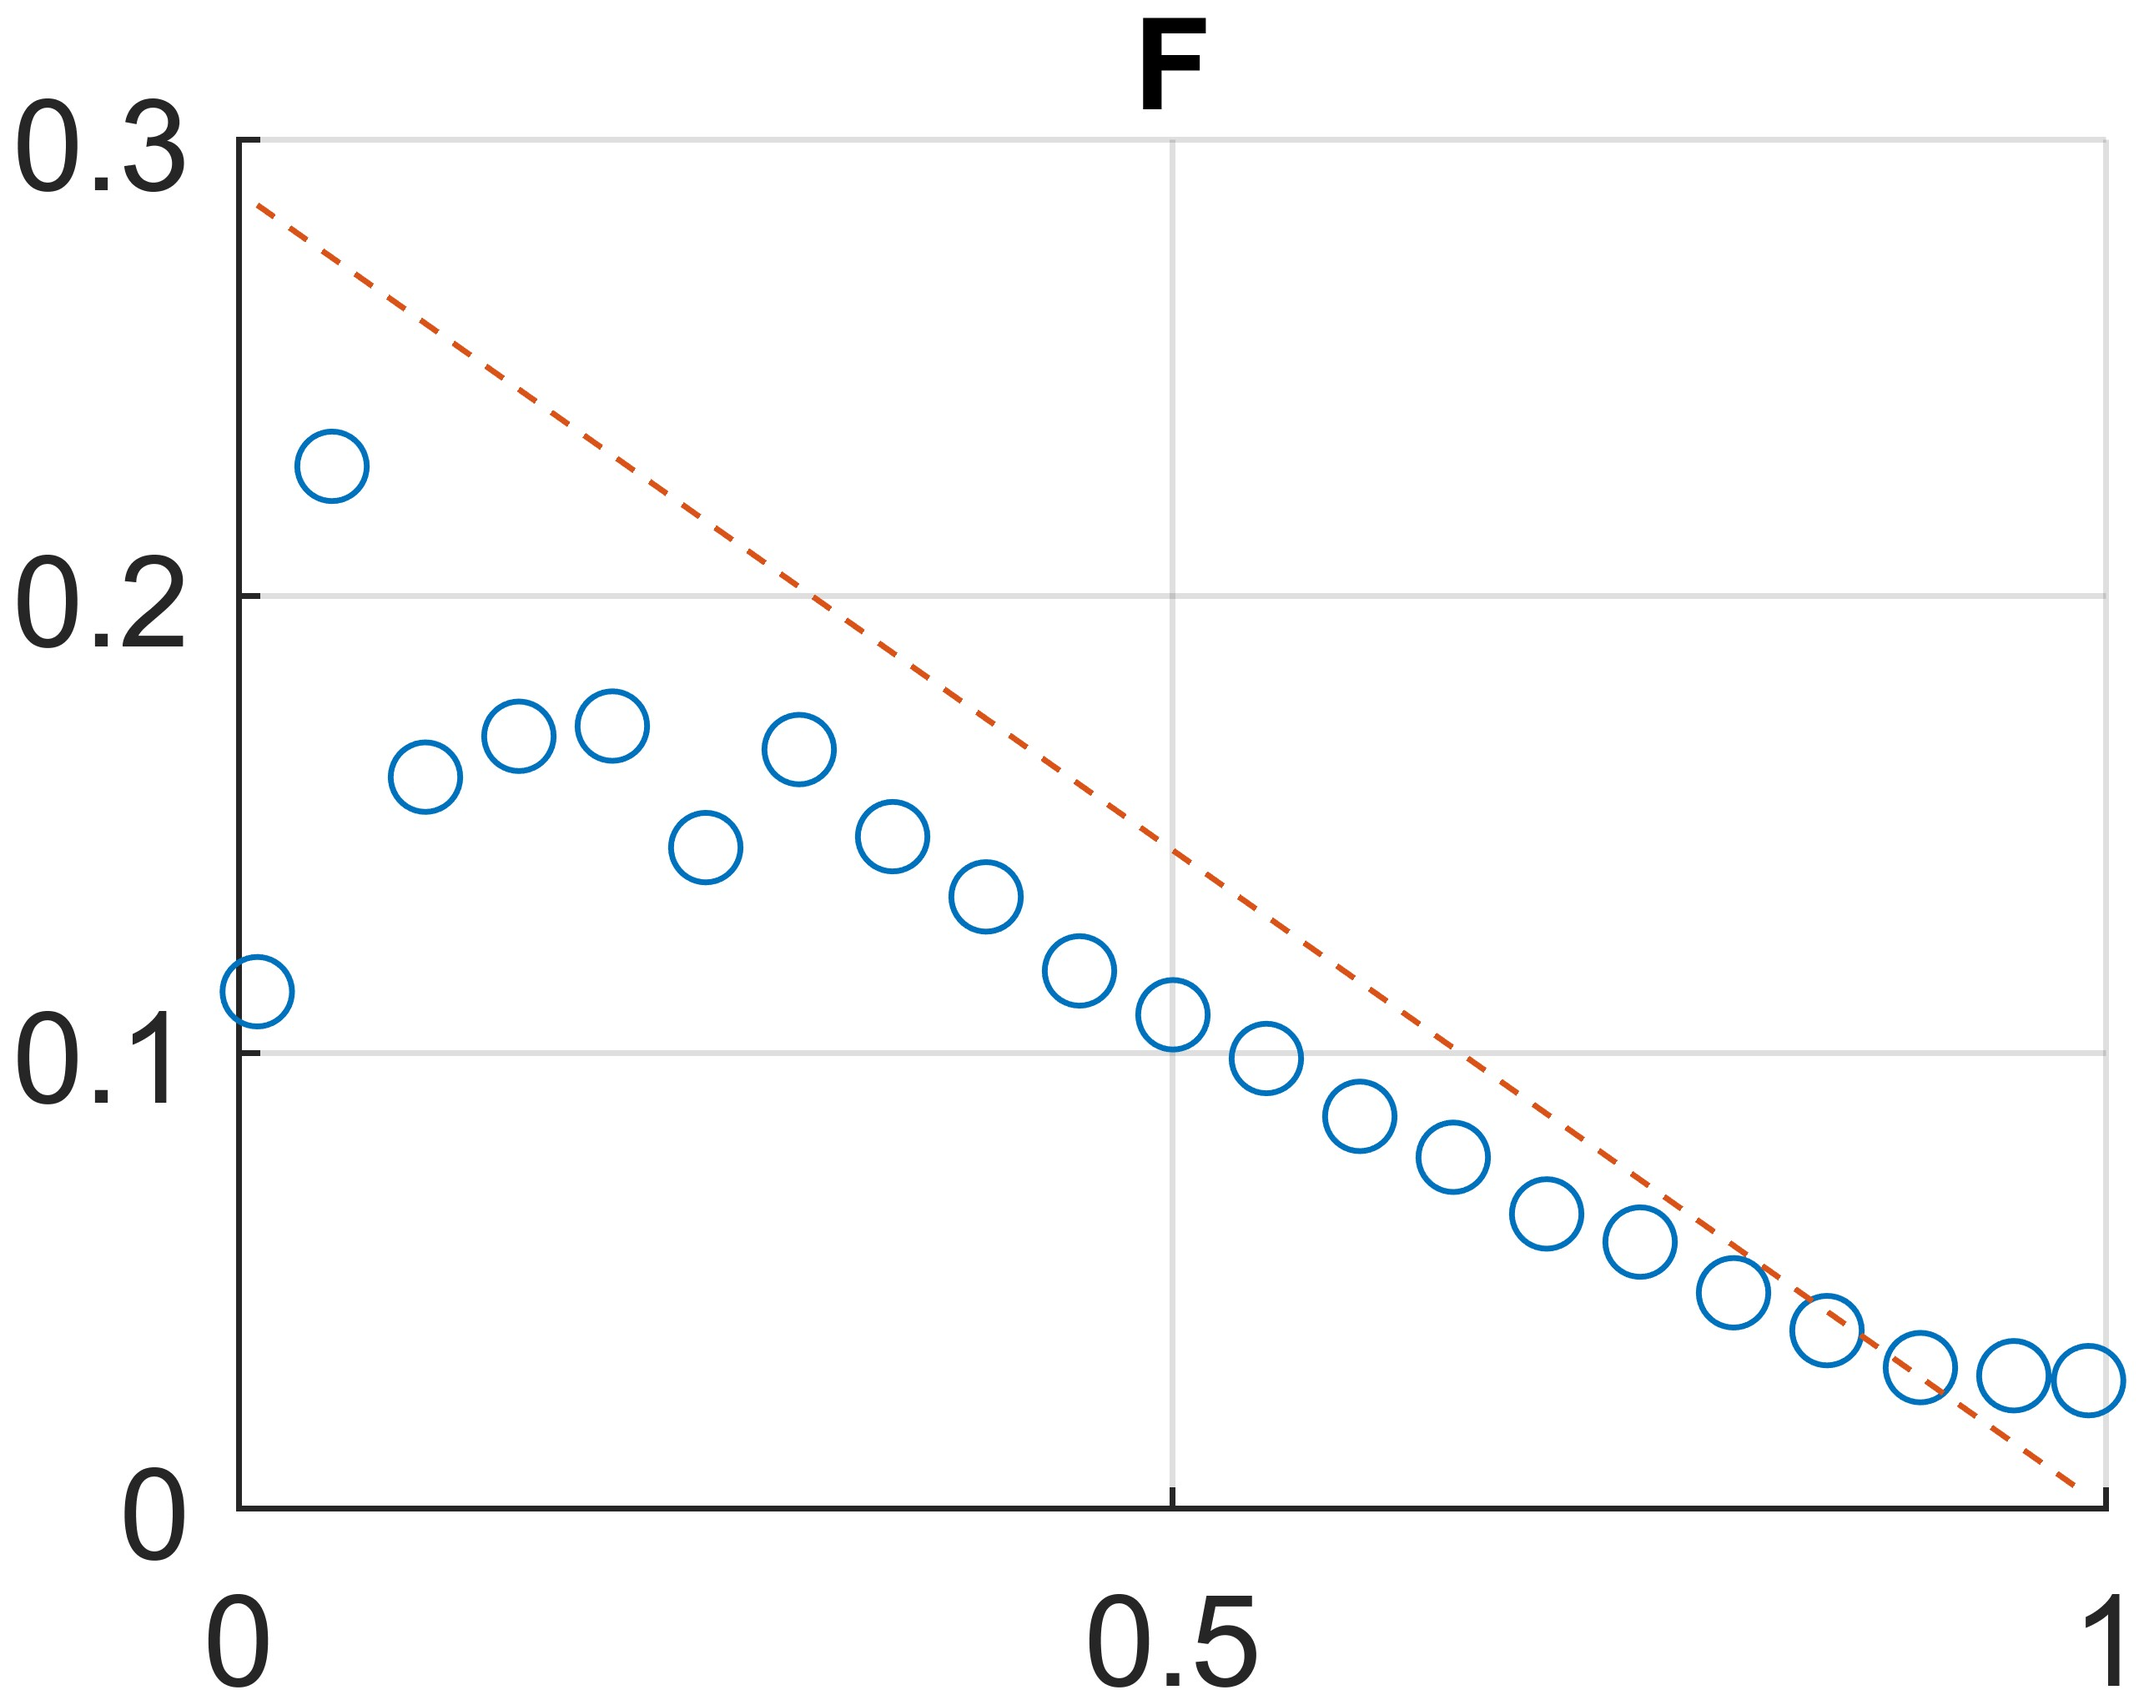
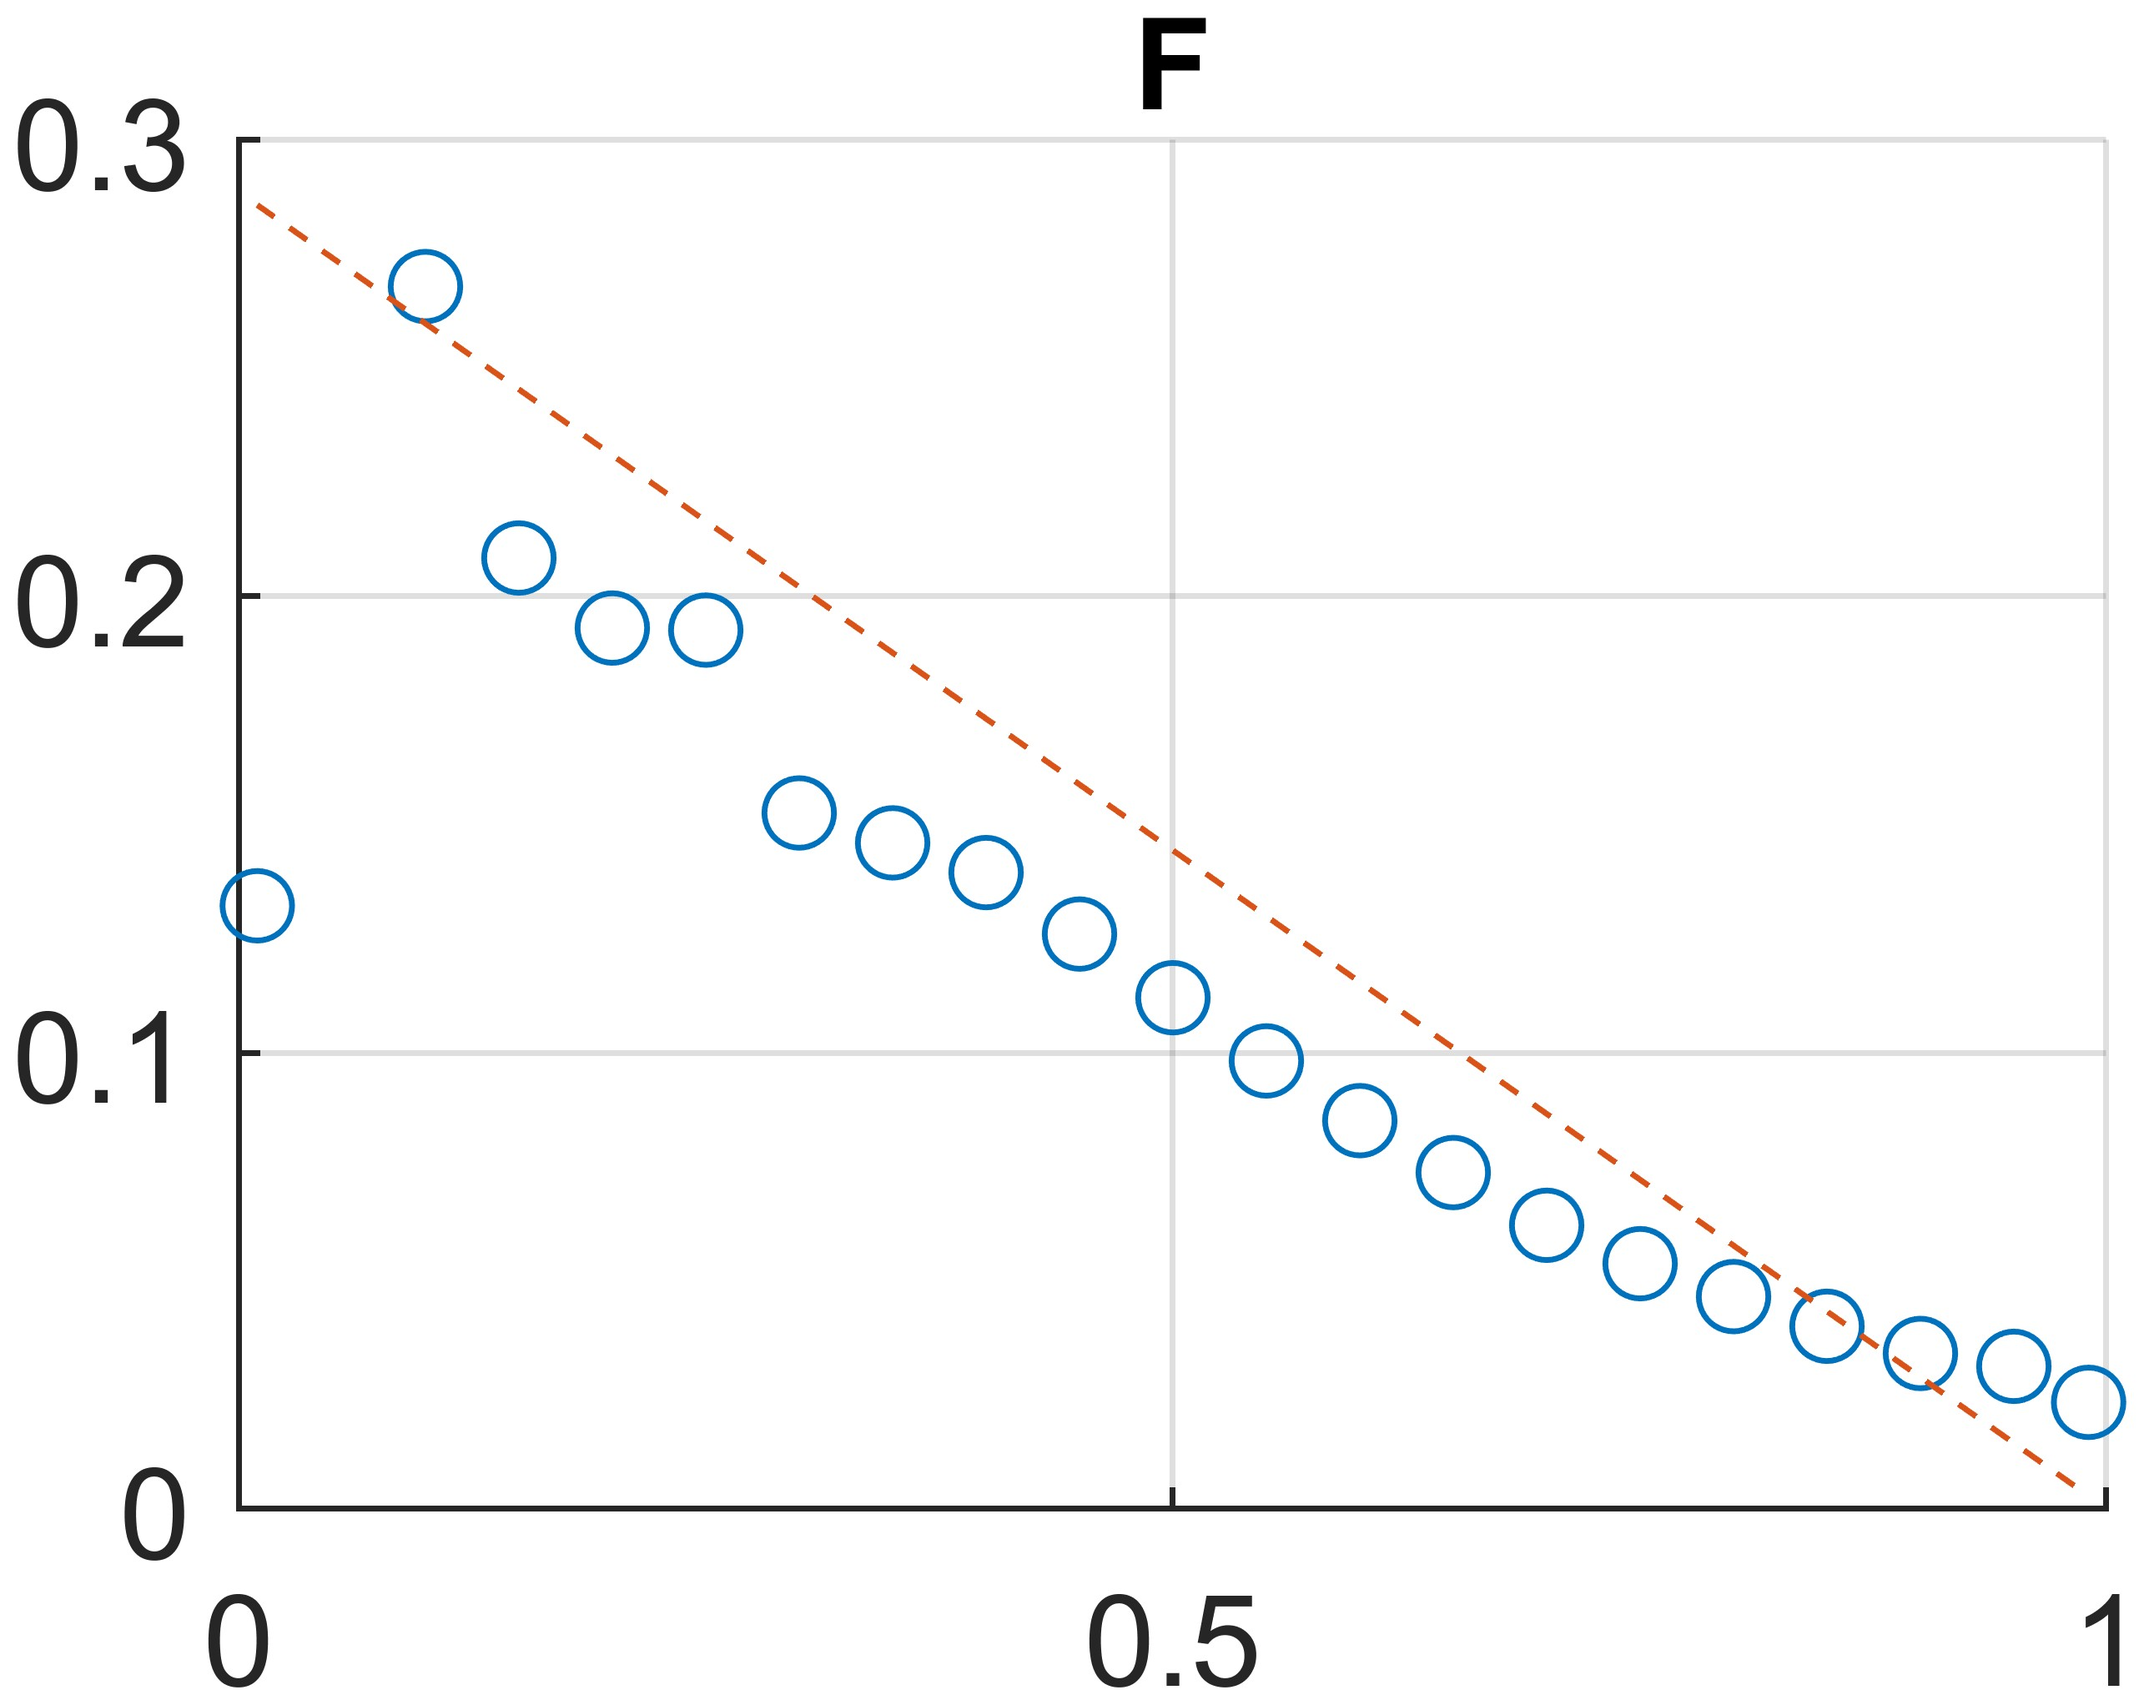
..

diff --git a/Monte_Carlo_sim_subgroups.m b/Monte_Carlo_sim_subgroups.m
@@ -19,7 +19,7 @@ if mod(N,Nsub) ~=0
 end
 tend = 2000; % no of generations
 d_vec_new = [0.01,0.05:0.05:0.95, 0.99]; % vector that contains all ratios worst to best resource used in the simulations
-norep = 10; % number of independent replicates
+norep = 2; % number of independent replicates
 distribution_vec = ["F"]; % resource distributions to be used
 f3 = figure(3); % initialise figures
 f2 = figure(2);
